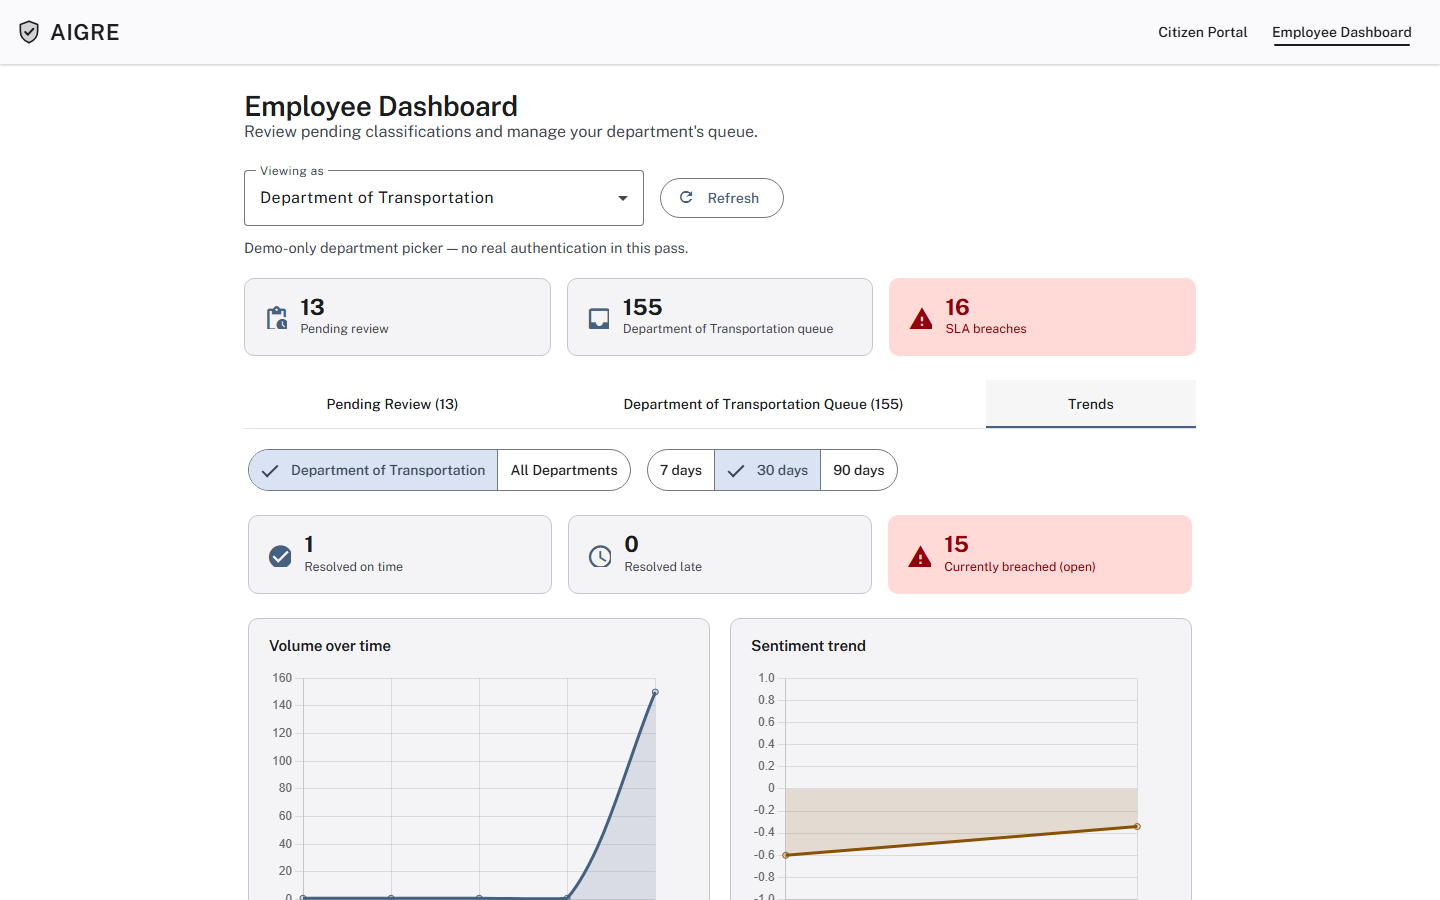
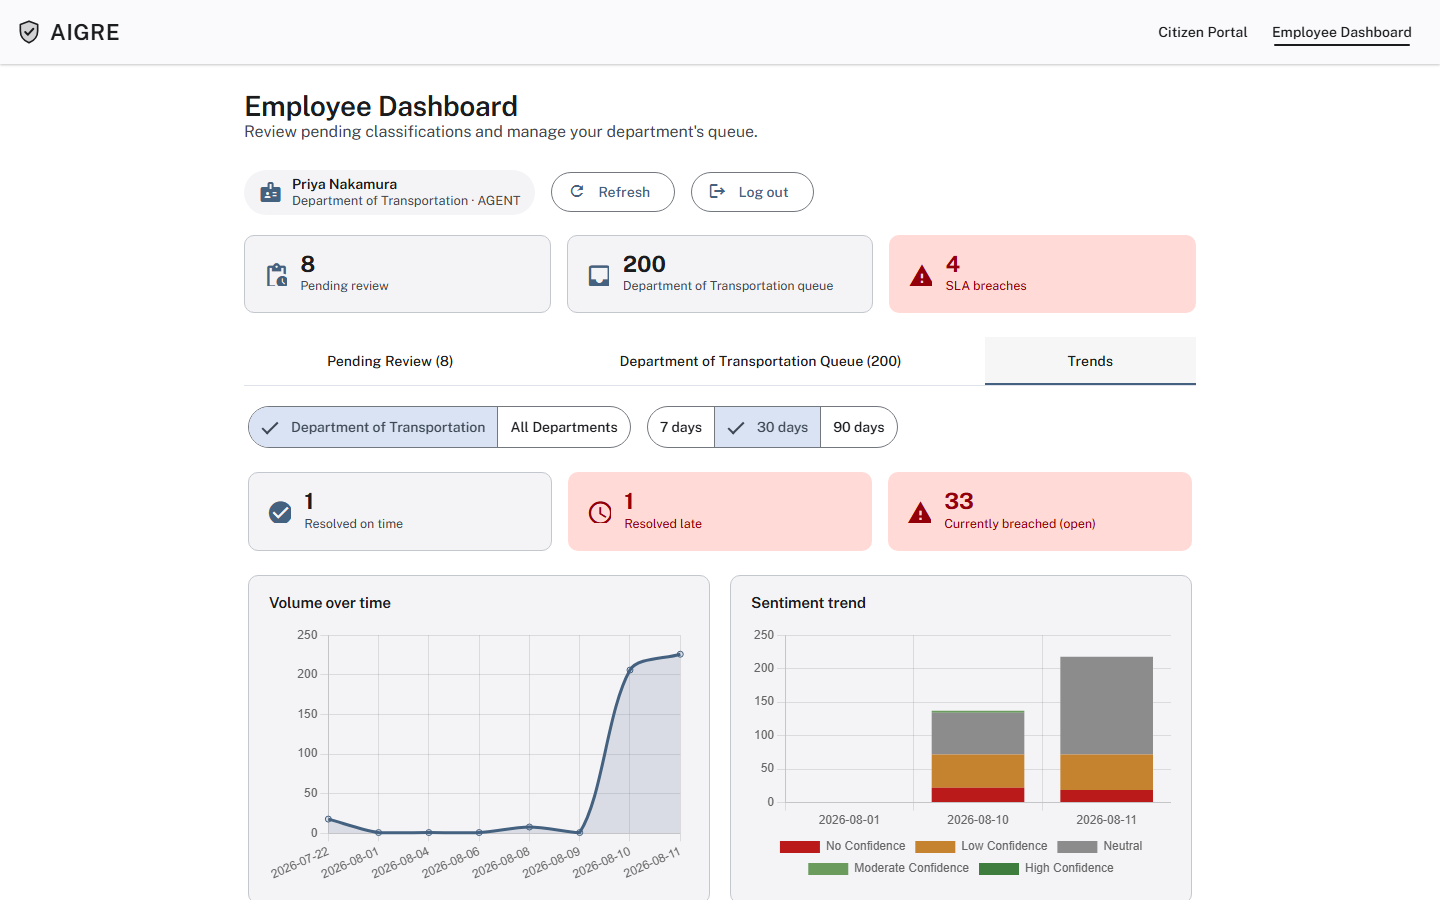
Document the email ingestion channel; refresh the sentiment chart screenshot
ARCHITECTURE.md: add the email poller to the system diagram and backend
components table, and a new sequence diagram for the email intake path.
APP_WALKTHROUGH.md: describe the Trends tab's new 5-level confidence
stacked bar chart and replace its screenshot with a live capture of the
new chart.

Claude-Session: https://claude.ai/code/session_015sAQJH3JSBd6CN6xHCPT64

Changed region(s): [[0.1562, 0.1867, 0.8438, 1.0], [0.5, 0.7156, 0.8125, 1.0]]

diff --git a/docs/ARCHITECTURE.md b/docs/ARCHITECTURE.md
@@ -12,7 +12,7 @@ bolt-on feature.
 - [System overview](#system-overview)
 - [Where AI is used](#where-ai-is-used-the-core-of-this-doc)
 - [Backend components](#backend-components)
-- [Data flow: three key journeys](#data-flow-three-key-journeys)
+- [Data flow: key journeys](#data-flow-key-journeys)
 - [Data model](#data-model)
 - [Frontend architecture](#frontend-architecture)
 - [Key design decisions](#key-design-decisions)
@@ -35,6 +35,7 @@ bolt-on feature.
 | Frontend framework | Angular 21 (standalone components, signals) |
 | Frontend UI kit | Angular Material 21 (Material 3 / M3 theming) |
 | Charts | Chart.js 4.5.1 via ng2-charts 10.0.0 |
+| Email ingestion | Jakarta Mail (IMAP) via `spring-boot-starter-mail`, polled on a schedule |
 | Build tools | Maven (backend), Angular CLI / esbuild (frontend) |
 
 ---
@@ -47,8 +48,11 @@ flowchart TB
         FE["Angular 21 SPA<br/>(Citizen Portal / Employee Dashboard)"]
     end
 
+    Mailbox[("Monitored IMAP mailbox<br/>(citizen-facing email address)")]
+
     subgraph Backend["Spring Boot 4 (WebFlux) — port 8085"]
         Intake["Intake<br/>(com.aigre.intake)"]
+        Email["Email Poller<br/>(com.aigre.email — @Scheduled)"]
         Workflow["Agent Workflow<br/>(com.aigre.workflow — LangGraph4j)"]
         Classify["Classifier<br/>(com.aigre.classification)"]
         RAG["Retrieval / Chat<br/>(com.aigre.retrieval, com.aigre.chat)"]
@@ -70,6 +74,8 @@ flowchart TB
     FE -- "REST" --> Workflow
     FE -- "SSE (streaming)" --> RAG
     FE -- "REST" --> Query
+    Mailbox -- "IMAP poll (unread mail)" --> Email
+    Email -- "start(request, EMAIL)" --> Workflow
 
     Intake --> Classify
     Workflow --> Classify
@@ -89,6 +95,14 @@ boundary between intake, classification, RAG, and the agent workflow — they're
 distinct packages under `com.aigre.*`, not distinct deployables. The frontend is a
 separate Angular SPA that talks to the backend over plain REST (JSON) and one
 Server-Sent-Events stream (chat).
+
+Two channels feed grievances into the same downstream pipeline: the portal (via the
+browser, `Intake`/`Workflow`) and email (`com.aigre.email.EmailGrievancePoller`, a
+scheduled IMAP poller — off by default, see `RUNNING.md` "Email ingestion"). Both
+ultimately call `GrievanceWorkflowService.start()`, so classification, duplicate
+detection, human-review pause, and SLA computation behave identically regardless of
+which channel a complaint arrived through — the only difference recorded is
+`grievances.channel` (`PORTAL` vs `EMAIL`).
 
 ---
 
@@ -371,6 +385,7 @@ of which exists in this repo).
 | Package | Responsibility |
 |---|---|
 | `com.aigre.intake` | Plain complaint intake (`POST /grievances`) — the pre-agentic-workflow path; still used, sets `NEEDS_CLARIFICATION` on low confidence rather than pausing for a human |
+| `com.aigre.email` | `EmailGrievancePoller` — scheduled IMAP polling of a monitored mailbox, the second inbound channel; feeds `GrievanceWorkflowService.start()`, same as the portal |
 | `com.aigre.classification` | `LlmGrievanceClassifier`, `ClassificationResult` — the classification LLM call and its parsing |
 | `com.aigre.workflow` | The LangGraph4j agent graph, its Spring Boot wiring, and the pause/resume REST endpoints |
 | `com.aigre.retrieval` | Hybrid retrieval + LLM rerank over the pgvector policy corpus |
@@ -384,7 +399,7 @@ of which exists in this repo).
 
 ---
 
-## Data flow: three key journeys
+## Data flow: key journeys
 
 **Citizen submits a grievance (agentic path, what the frontend actually uses):**
 
@@ -410,6 +425,37 @@ sequenceDiagram
     end
     W-->>C: {pendingReview, department, priority, reasoning, ...}
 ```
+
+**Citizen emails a grievance (second inbound channel):**
+
+```mermaid
+sequenceDiagram
+    participant C as Citizen (email client)
+    participant M as Monitored IMAP mailbox
+    participant P as EmailGrievancePoller
+    participant Pii as PiiRedactor
+    participant W as GrievanceWorkflowService
+    participant G as LangGraph4j graph
+
+    C->>M: sends an email
+    loop every poll-interval-ms
+        P->>M: search unseen messages
+        M-->>P: unread message(s)
+        P->>Pii: redact(subject + body)
+        Pii-->>P: redacted text
+        P->>W: start(request, "EMAIL")
+        W->>G: invoke(...) (same graph as the portal path)
+        G-->>W: committed or paused at human_review
+        P->>M: mark message SEEN
+    end
+```
+
+Deliberately the *same* `start()` call the portal uses (just with `channel = "EMAIL"`),
+so everything downstream — classification, duplicate detection, the human-review
+pause, SLA computation — is identical regardless of channel. The IMAP SEEN flag is the
+idempotency mechanism (no separate cursor table); a message that fails to ingest is
+moved to a `Failed` folder rather than retried forever on every poll. Off by default
+(`email.enabled: false`) — see `RUNNING.md` for how to point it at a real mailbox.
 
 **Supervisor resolves a paused review:**
 

diff --git a/docs/APP_WALKTHROUGH.md b/docs/APP_WALKTHROUGH.md
@@ -237,9 +237,11 @@ Two independent toggles: **This Department / All Departments**, and a **7 / 30 /
 day** window. Four charts plus an SLA snapshot:
 
 - **Volume over time** — daily complaint count, line chart.
-- **Sentiment trend** — average sentiment score per day (-1 to 1); days with no
-  sentiment-bearing complaints are omitted from the series rather than plotted as a
-  misleading 0.
+- **Sentiment trend** — stacked bar chart, one bar per day, split into 5 named
+  confidence bands (No Confidence / Low Confidence / Neutral / Moderate Confidence /
+  High Confidence) rather than a single averaged number, so a day where sentiment was
+  genuinely mixed looks different from a day where everyone landed in the same band —
+  something one averaged line couldn't show.
 - **Top categories** — bar chart, top 8 in the selected scope.
 - **By priority** — bar chart, CRITICAL/HIGH/MEDIUM/LOW, color-matched to the same
   priority-chip colors used everywhere else in the app.
